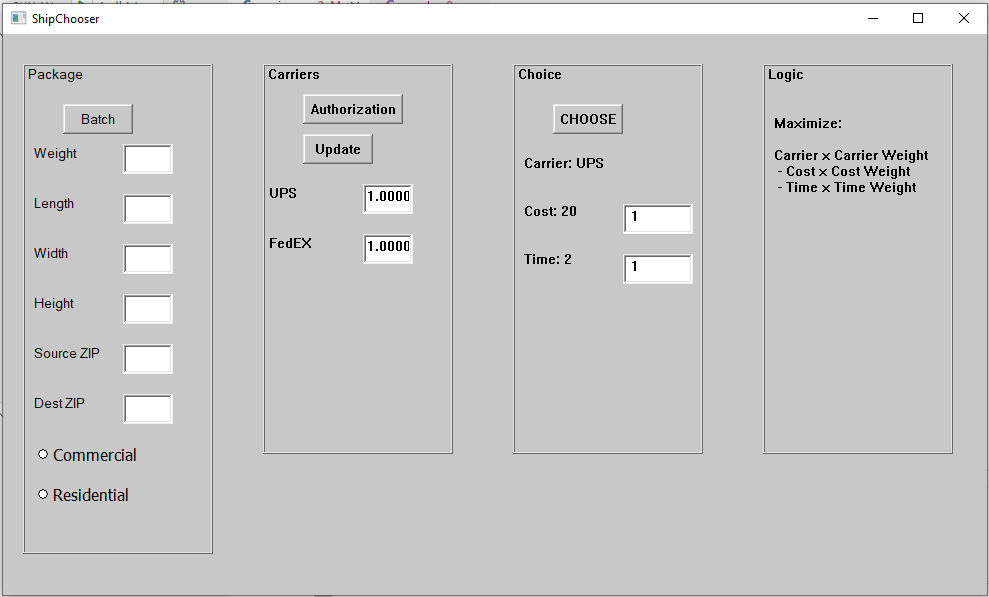
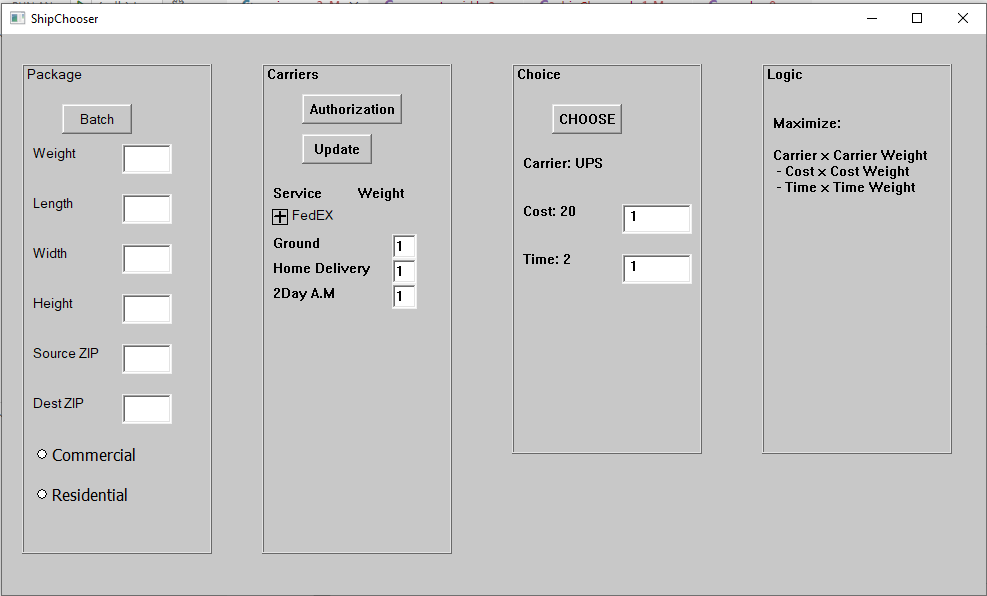
Carrier service property grid

diff --git a/src/main.cpp b/src/main.cpp
@@ -5,6 +5,7 @@
 #include <vector>
 #include <algorithm>
 #include <wex.h>
+#include <propertygrid.h>
 #include "cStarterGUI.h"
 #include "shipChooser.h"
 
@@ -39,16 +40,7 @@ private:
     wex::groupbox &gpCarrier;
     wex::button &bnAuthorization;
     wex::button &bnCarriers;
-    wex::label &lbCarrier1;
-    wex::editbox &edCarrier1;
-    wex::label &lbCarrier2;
-    wex::editbox &edCarrier2;
-    wex::label &lbCarrier3;
-    wex::editbox &edCarrier3;
-    wex::label &lbCarrier4;
-    wex::editbox &edCarrier4;
-    wex::label &lbCarrier5;
-    wex::editbox &edCarrier5;
+    wex::propertyGrid &pgCarrier;
 
     wex::panel &plChoice;
     wex::groupbox &gpChoice;
@@ -106,18 +98,10 @@ cGUI::cGUI()
       plCarrier(wex::maker::make<wex::panel>(fm)),
       gpCarrier(wex::maker::make<wex::groupbox>(plCarrier)),
 
-      lbCarrier1(wex::maker::make<wex::label>(plCarrier)),
-      edCarrier1(wex::maker::make<wex::editbox>(plCarrier)),
       bnAuthorization(wex::maker::make<wex::button>(plCarrier)),
       bnCarriers(wex::maker::make<wex::button>(plCarrier)),
-      lbCarrier2(wex::maker::make<wex::label>(plCarrier)),
-      edCarrier2(wex::maker::make<wex::editbox>(plCarrier)),
-      lbCarrier3(wex::maker::make<wex::label>(plCarrier)),
-      edCarrier3(wex::maker::make<wex::editbox>(plCarrier)),
-      lbCarrier4(wex::maker::make<wex::label>(plCarrier)),
-      edCarrier4(wex::maker::make<wex::editbox>(plCarrier)),
-      lbCarrier5(wex::maker::make<wex::label>(plCarrier)),
-      edCarrier5(wex::maker::make<wex::editbox>(plCarrier)),
+      pgCarrier(wex::maker::make<wex::propertyGrid>(plCarrier)),
+
 
       plChoice(wex::maker::make<wex::panel>(fm)),
       gpChoice(wex::maker::make<wex::groupbox>(plChoice)),
@@ -201,9 +185,11 @@ void cGUI::constructCarrierPanel(int x, int y)
      "FedEx Ground®","fedex_ground");
     vCarrier.emplace_back("FedEX", "fedex",
      "FedEx Home Delivery®","fedex_home_delivery");
+    vCarrier.emplace_back("FedEX", "fedex",
+     "FedEx 2Day® A.M","fedex_2day_am");
 
-    plCarrier.move(x, y, 200, 400);
-    gpCarrier.move({10, 10, 190, 390});
+    plCarrier.move(x, y, 200, 500);
+    gpCarrier.move({10, 10, 190, 490});
     gpCarrier.text("Carriers");
 
     y = 40;
@@ -214,20 +200,14 @@ void cGUI::constructCarrierPanel(int x, int y)
     bnCarriers.move(50, y, 70, 30);
     bnCarriers.text("Update");
 
-    int lbw = 80;
-    int edx = lbw + 30;
     y += 50;
-    lbCarrier1.move(15, y, lbw, 30);
-    lbCarrier1.text(vCarrier[0].text());
-    edCarrier1.move(edx, y, 50, 30);
-    edCarrier1.text(std::to_string(vCarrier[0].myFactorWeight));
+    pgCarrier.move({20,y,170,300});
+    pgCarrier.labelWidth(120);
+    pgCarrier.text("Service         Weight");
+    pgCarrier.category(vCarrier[0].myCarrierName);
+    for( auto& c : vCarrier )
+        pgCarrier.string(c.text(), "1");
 
-    y += 50;
-    lbCarrier2.move(15, y, lbw, 30);
-    lbCarrier2.text(vCarrier[1].text());
-    edCarrier2.move(edx, y, 50, 30);
-    edCarrier2.text(std::to_string(vCarrier[1].myFactorWeight));
-    y += 50;
 }
 
 void cGUI::constructChoicePanel(int x, int y)
@@ -278,9 +258,29 @@ void cGUI::choose()
     }
 }
 
+    cCarrier::cCarrier(
+        const std::string &Carriername,
+        const std::string &Carriercode,
+        const std::string &Servicename,
+        const std::string &Servicecode)
+        : myCarrierName(Carriername),
+          myCarrierCode(Carriercode),
+          myServiceName(Servicename ),
+          myServiceCode(Servicecode ),
+          myFactorWeight(1)
+    {
+    }
+
 std::string cCarrier::text() const
 {
-    return myCarrierName + "/" + myServiceName;
+    auto ret = myServiceName;
+    // int p = ret.find( myCarrierName );
+    // if( p == 0 )
+    ret = ret.substr(myCarrierName.length()+1);
+    int p = ret.find("®");
+    if( p != -1 )
+        ret = ret.substr(0,p) + ret.substr(p+2);
+    return ret;
 }
 
 float cCarrier::cost(const cPackage &package)

diff --git a/src/shipChooser.h b/src/shipChooser.h
@@ -23,14 +23,7 @@ public:
         const std::string &Carriername,
         const std::string &Carriercode,
         const std::string &Servicename,
-        const std::string &Servicecode)
-        : myCarrierName(Carriername),
-          myCarrierCode(Carriercode),
-          myServiceName(Servicename ),
-          myServiceCode(Servicecode ),
-          myFactorWeight(1)
-    {
-    }
+        const std::string &Servicecode);
 
     std::string text() const;
     float cost(const cPackage &package);
